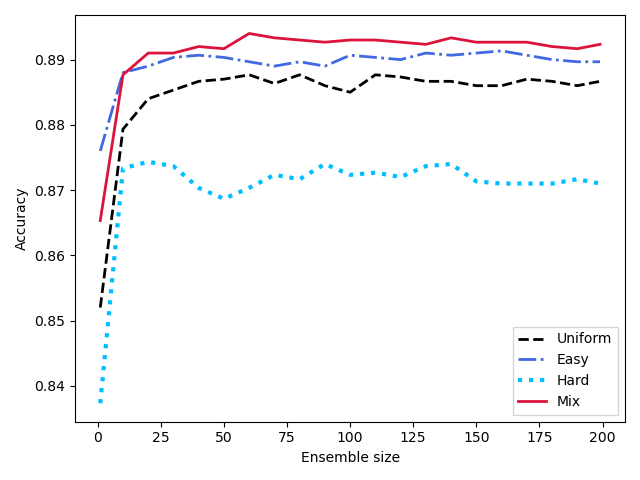
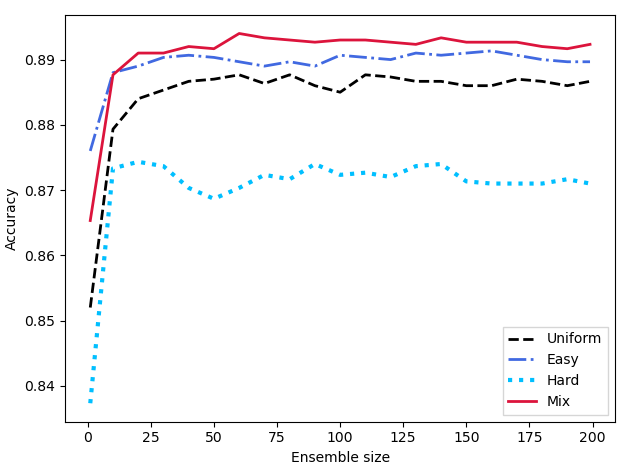
artificial cases

diff --git a/Plot_BootstrapSample.py b/Plot_BootstrapSample.py
@@ -4,10 +4,10 @@ X_bootstrap, y_bootstrap,
 data = pd.DataFrame(X_bootstrap, columns=['x1','x2'])
 data['y'] = y_bootstrap
 
-# data = pd.DataFrame(X_train, columns=['x1','x2'])
-# data['y'] = y_train
-# len(y_train)
-# len(y_bootstrap)
+data = pd.DataFrame(X, columns=['x1','x2'])
+data['y'] = y
+len(y_train)
+len(y_bootstrap)
 # Plot
 # For labels
 labels = list(data.index)
@@ -133,9 +133,9 @@ total_name_list = ['AggregatedResults_Bagging_Data9_MoreWeight_easy_Instances.cs
  'AggregatedResults_Bagging_Data9_MoreWeight_hard_Instances.csv',
  'AggregatedResults_Bagging_Data9_MoreWeight_combo_split_classic_split1_stump_noInstances.csv']
 
-data_easy = pd.read_csv('AggregatedResults_Bagging_Data6_MoreWeight_easy_Instances.csv')
-data_hard = pd.read_csv('AggregatedResults_Bagging_Data6_MoreWeight_hard_Instances.csv')
-data_classic = pd.read_csv('AggregatedResults_Bagging_Data6_MoreWeight_combo_split_classic_split1_stump_noInstances.csv')
+data_easy = pd.read_csv('AggregatedResults_Bagging_Data2_MoreWeight_easy_Instances.csv')
+data_hard = pd.read_csv('AggregatedResults_Bagging_Data2_MoreWeight_hard_Instances.csv')
+data_classic = pd.read_csv('AggregatedResults_Bagging_Data2_MoreWeight_combo_split_classic_split1_stump_noInstances.csv')
 
 data_together = pd.DataFrame()
 acc_bagg = data_easy.loc[data_easy.weights == 'Uniform', ['n_ensemble','accuracy_mean']]

diff --git a/ComplexityDriven_Bagging.py b/ComplexityDriven_Bagging.py
@@ -381,7 +381,7 @@ total_name_list = [#'teaching_assistant_MH.csv','contraceptive_NL.csv','hill_val
  'ionosphere.csv','bands.csv','wdbc.csv','teaching_assistant_LH.csv',
  'pima.csv','spambase.csv','banknote_authentication.csv', 'haberman.csv']
 # 'appendicitis.csv' me ha dado problemas
-total_name_list = ['Data2.csv']
+total_name_list = ['Data4.csv']
 
 path_to_save = root_path+'/Bagging_results'
 n_ensembles = 200 # maximum number of ensembles to consider (later we plot and stop when we want)
